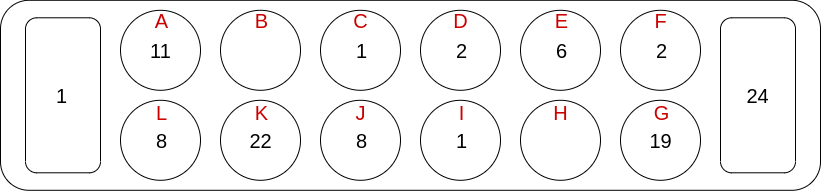
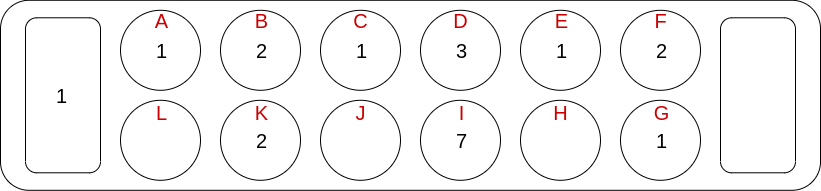
update

diff --git a/ouri/Tabuleiro GUI/teste.html b/ouri/Tabuleiro GUI/teste.html
@@ -1,0 +1,25 @@
+ <!DOCTYPE html>
+<html>
+<head>
+<title>Jogo Ouri</title>
+</head>
+<body>
+
+<h2>Jogo do Ouri</h2>
+
+<img src="novaJogada.png" alt="myImg">
+
+<button type="button"
+onclick="changePicture()">
+atualizar</button>
+
+<p id="demo"></p>
+
+<script>
+	function changePicture() {
+		location.reload()
+	}
+</script>
+
+</body>
+</html> 

diff --git a/ouri/main.py b/ouri/main.py
@@ -1,0 +1,110 @@
+from pyswip import *
+prolog = Prolog()
+prolog.consult("alfabeta.pl")
+
+
+def joga(lista, pos):
+    valor = lista[pos]
+
+    i = pos
+
+    lista[pos] = 0
+
+    quociente = int(valor/11)
+
+    resto = valor % 11
+
+    while(valor != 0):
+        if(i == pos):
+            i -= 1
+
+        if(i == -1):
+            i = len(lista) - 1
+
+        lista[i] += quociente
+        valor -= quociente
+        
+        if(resto > 0):
+            lista[i] += 1
+            resto -= 1
+            valor -= 1
+
+        i -= 1
+    
+    return lista, i + 1
+
+def captura(lista, inicio):
+    i = inicio
+    pontos = 0
+
+    while(lista[i] == 2 or lista[i] == 3):
+
+        pontos += lista[i]
+        lista[i] = 0
+        i += 1
+
+        if(i == len(lista)):
+            i = 0
+
+    return lista, pontos
+
+def faz_jogada(pos, lado):
+    #tirar o tabuleiro
+    dic = list(prolog.query("estado_atual(P_e, P_d, Tab)"))[0]
+    tabuleiro = dic["Tab"]
+    pontos_e = dic["P_e"]
+    pontos_d = dic["P_d"]
+
+    pos -= 1
+    novo_tab, ultima_pos = joga(tabuleiro, pos)
+    novo_tab, pontos = captura(novo_tab, ultima_pos)
+    print("DEBUG: " + str(novo_tab) + " fez: " + str(pontos) + " pontos\n")
+    
+    prolog.retractall("estado_atual(X,Y,Z)")
+
+    if(lado == "e"):
+        pontos_e = int(pontos_e) + pontos
+
+    else:
+        pontos_d = int(pontos_d) + pontos
+    
+    prolog.assertz("estado_atual(%d, %d, %s)" % (pontos_e, pontos_d, str(novo_tab)))
+faz_jogada.arity = 2
+
+registerForeign(faz_jogada)
+
+def jogadas_validas(lado):
+    if(lado == "e"):
+        inicio = 6
+        fim = 12
+
+    else:
+        inicio = 0
+        fim = 6
+
+    prolog.retractall("jogada_possivel(X)")
+
+    dic = list(prolog.query("estado_atual(P_e, P_d, Tab)"))[0]
+    tabuleiro = dic["Tab"]
+    lista = tabuleiro[inicio:fim]
+
+    maximo = int(max(lista))
+
+    if(maximo == 1):
+        for i in range(len(lista)):
+            if(i != 0):
+                prolog.asserta("jogada_possivel(%d)" % (i + 1))
+
+    else:
+        for i in range(len(lista)):
+            if(i > 1):
+                prolog.asserta("jogada_possivel(%d)" % (i + 1))
+jogadas_validas.arity = 1
+
+registerForeign(jogadas_validas)
+
+def op(E, J, X):
+    prolog.query("jogadas_validas(%s)" %(J))
+    prolog.query("jogadas_validas(X), faz_jogada(X,%s)" % (J))
+
+prolog.query("joga(X)")

diff --git a/ouri/Tabuleiro GUI/tab.py b/ouri/Tabuleiro GUI/tab.py
@@ -9,10 +9,9 @@ except ModuleNotFoundError:
 
 
 def draw(Tab):
-
 	boardIm = Image.open('ouri.png')
-
-	pos = [(38, 75), (735, 75), (138, 30), (238, 30), (338, 30), (438, 30), (538, 30), (638, 30), (138, 120), (238, 120), (338, 120), (438, 120), (538, 120), (638, 120)]
+#									1			2		3			4			5			6		7			8			9			10			11			12
+	pos = [(38, 75), (735, 75), (138, 30), (238, 30), (338, 30), (438, 30), (538, 30), (638, 30), (638, 120),(538, 120) , (438, 120), (338, 120), (238, 120), (138, 120)]
 
 	numbers = ['1.png', '2.png', '3.png', '4.png', '5.png', '6.png', '7.png', '8.png', '9.png', '10.png', '11.png', '12.png', '13.png', '14.png', '15.png', '16.png', '17.png', '18.png', '19.png', '20.png', '21.png', '22.png', '23.png', '24.png', '25.png']
 
@@ -20,27 +19,11 @@ def draw(Tab):
 		if Tab[i] != 0:
 			boardIm.paste(Image.open(numbers[Tab[i] - 1]), pos[i])
 
-
-
 	boardIm.save('novaJogada.png')
 
 
 def main():
-	Tab = list()
-	Tab.append(1)
-	Tab.append(24)
-	Tab.append(11)
-	Tab.append(0)
-	Tab.append(1)
-	Tab.append(2)
-	Tab.append(6)
-	Tab.append(2)
-	Tab.append(8)
-	Tab.append(22)
-	Tab.append(8)
-	Tab.append(1)
-	Tab.append(0)
-	Tab.append(19)
+	Tab = [1,0, 1,2,1,3,1,2,1,0,7,0,2,0]
 	draw(Tab)
 
 
